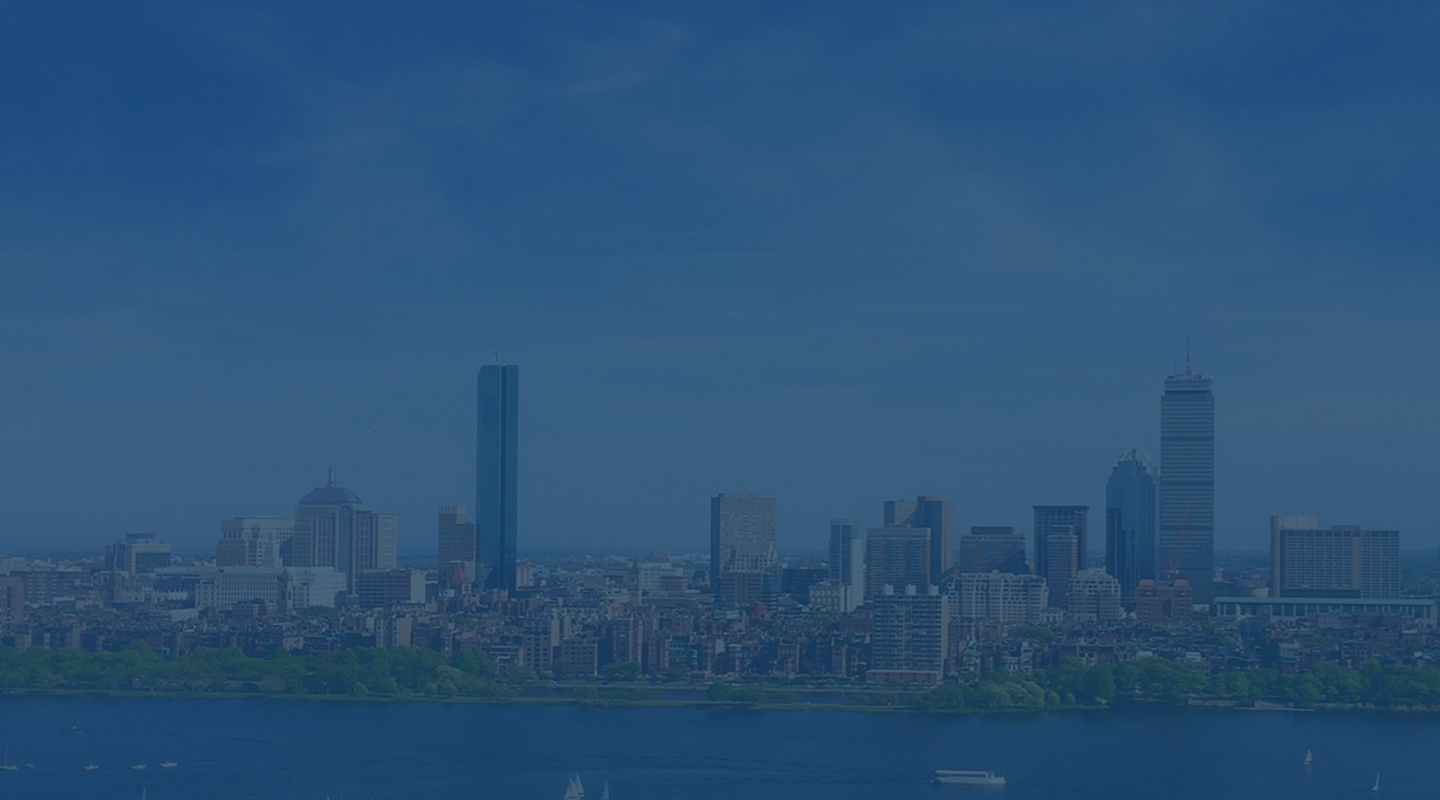
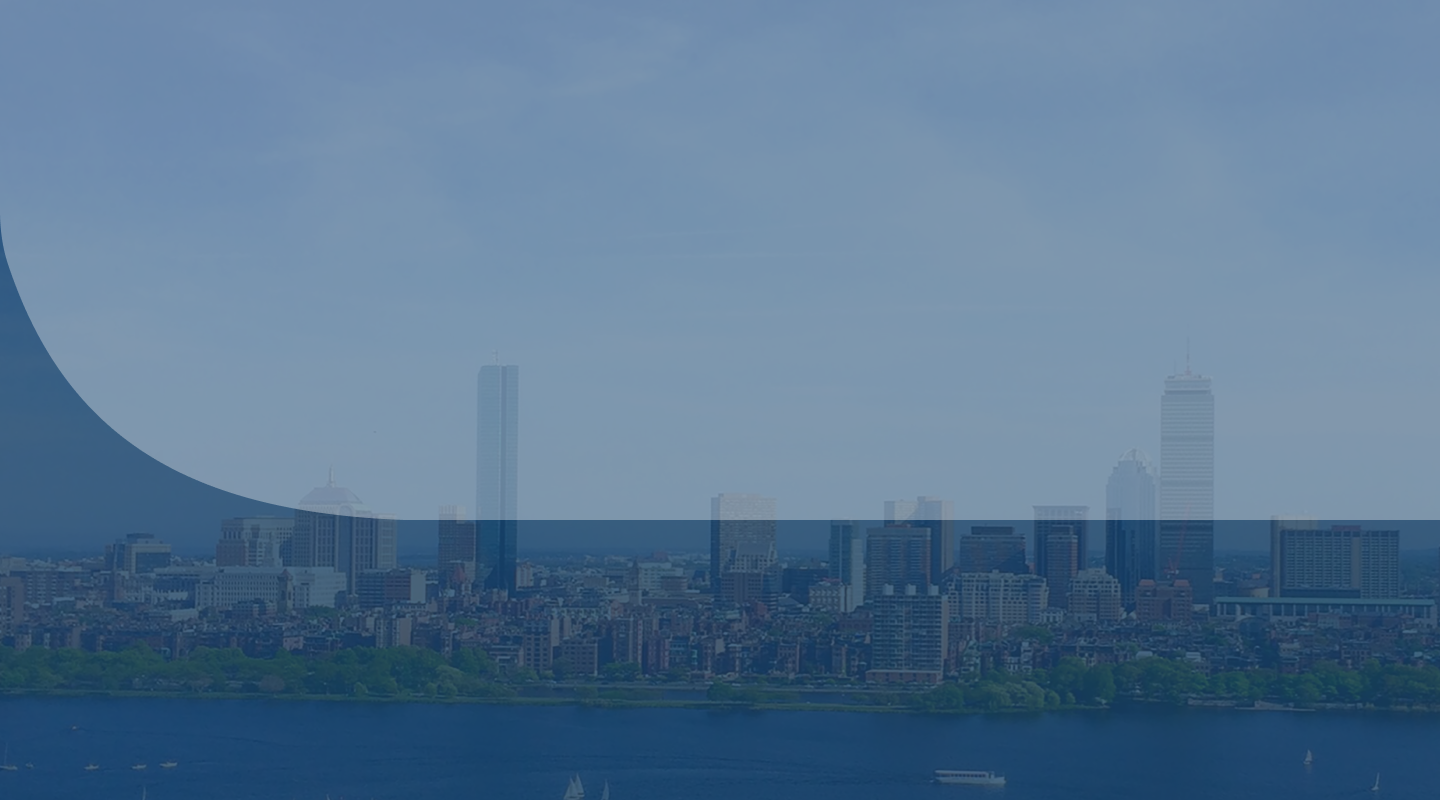
image and login

diff --git a/login.html b/login.html
@@ -9,15 +9,15 @@
     <link rel="stylesheet" href="vendors/font-awesome/css/all.min.css">
 </head>
 <body>
-    <div class="container-fluid px-0">
-        <div class="bg-login 100vh pt-5">
-            <div class="row p-5 z-2  justify-content-around">
+    <div class="container-fluid px-0 bg-login" >
+        <div class=" 100vh pt-5">
+            <div class="row p-5 z-2 mx-0 justify-content-around">
                 <div class="col-6">
                   <img src="img/pgcalc-logo.png" alt="">
                     <h1 class="text-white fw-bold pt-2">Everything You Need in Planned Giving</h1>
                 </div>
-                <div class="col-4 bg-light p-5 rounded-4">
-                    <div class="row">
+                <div class="col-4 bg-light-card p-5 rounded-4 ">
+                    <div class="row mx-0">
                         
                     <div class="alert alert-danger alert-dismissible d-flex align-items-center " role="alert">
                         <i class="fa fa-exclamation-triangle"></i>
@@ -27,7 +27,7 @@
                         <button type="button" class="btn-close align-self-center" data-bs-dismiss="alert" aria-label="Close"></button>
                       </div>
                   
-                    <main class="form-signin w-100 m-auto">
+                    <main class="form-signin w-100 m-auto ">
                         <form>
                           <h1 class="h3 mb-3 fw-medium text-center ">GiftWrap Login</h1>
                       
